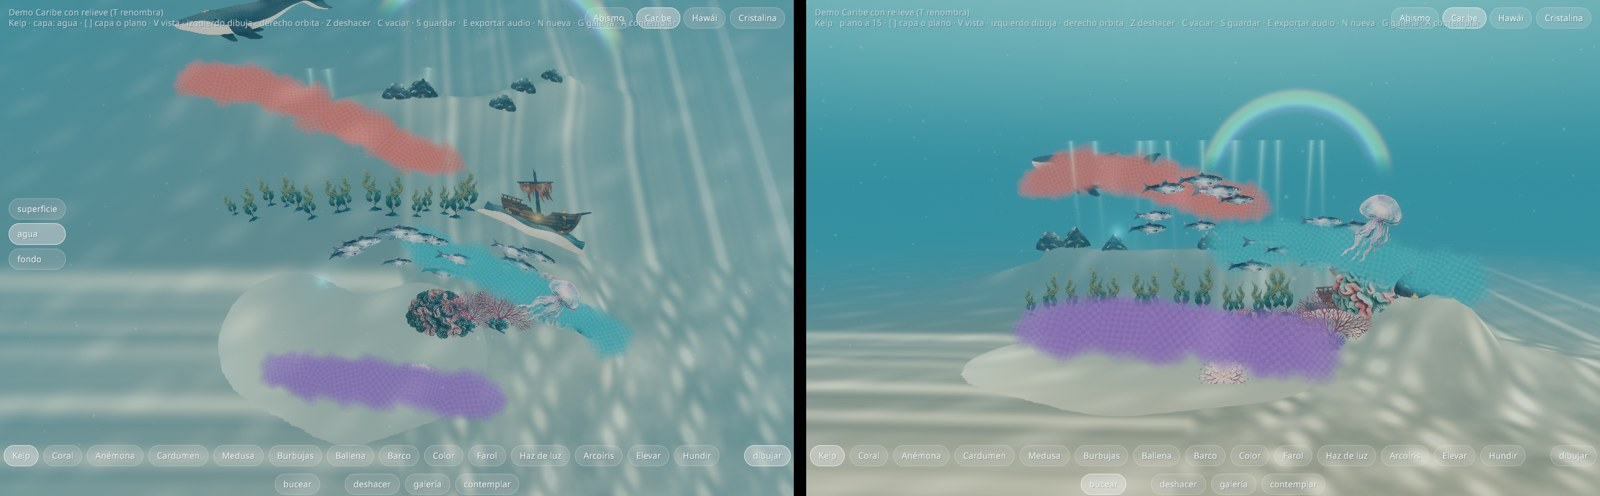
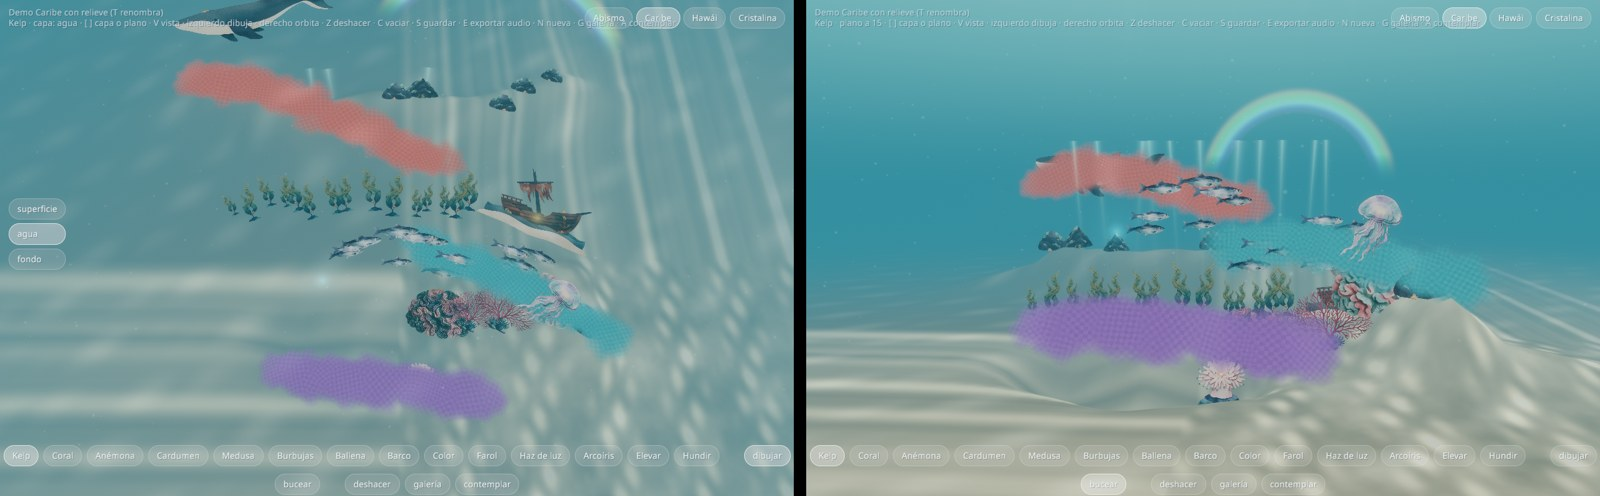
suelo: una sola malla de relieve con rejilla fina al centro y gruesa hacia el fondo (sin plano aparte que tape las fosas)

diff --git a/lienzo/app/src/terrain.rs b/lienzo/app/src/terrain.rs
@@ -10,9 +10,16 @@ use bevy::prelude::*;
 use lienzo_core::terrain::height_at;
 use lienzo_core::Scene;
 
-/// Extensión del relieve en unidades de mundo (más allá, el suelo es plano).
-pub const EXTENT: f32 = 16.0;
-pub const CELLS: usize = 112;
+/// Extensión de la malla del suelo en unidades de mundo. La rejilla es fina en
+/// el centro (donde se dibuja) y gruesa hacia fuera: una sola malla cubre
+/// hasta la pared del fondo, sin plano aparte que tape las fosas.
+pub const EXTENT: f32 = 95.0;
+pub const CELLS: usize = 160;
+const WARP: f32 = 2.6;
+
+fn warp(u: f32) -> f32 {
+    u.signum() * u.abs().powf(WARP) * EXTENT
+}
 
 #[derive(Component)]
 pub struct Terrain;
@@ -51,14 +58,14 @@ pub fn floor_y(scene: &Scene, x: f32, z: f32) -> f32 {
 
 pub fn build_mesh(scene: &Scene) -> Mesh {
     let n = CELLS + 1;
-    let step = 2.0 * EXTENT / CELLS as f32;
     let mut pos = Vec::with_capacity(n * n);
     let mut uv = Vec::with_capacity(n * n);
     let mut heights = vec![0.0f32; n * n];
+    let coord = |k: usize| warp(-1.0 + 2.0 * k as f32 / CELLS as f32);
     for j in 0..n {
         for i in 0..n {
-            let x = -EXTENT + i as f32 * step;
-            let z = -EXTENT + j as f32 * step;
+            let x = coord(i);
+            let z = coord(j);
             // fuera del volumen dibujable el relieve se apaga suavemente
             let edge = ((HALF_W * 1.6 - x.abs().max(z.abs())) / (HALF_W * 0.6)).clamp(0.0, 1.0);
             let y = floor_y(scene, x, z) * edge;
@@ -75,8 +82,10 @@ pub fn build_mesh(scene: &Scene) -> Mesh {
                 let jj = jj.clamp(0, n as isize - 1) as usize;
                 heights[jj * n + ii]
             };
-            let dx = (h(i as isize + 1, j as isize) - h(i as isize - 1, j as isize)) / (2.0 * step);
-            let dz = (h(i as isize, j as isize + 1) - h(i as isize, j as isize - 1)) / (2.0 * step);
+            let sx = (coord((i + 1).min(CELLS)) - coord(i.saturating_sub(1))).max(1e-4);
+            let sz = (coord((j + 1).min(CELLS)) - coord(j.saturating_sub(1))).max(1e-4);
+            let dx = (h(i as isize + 1, j as isize) - h(i as isize - 1, j as isize)) / sx;
+            let dz = (h(i as isize, j as isize + 1) - h(i as isize, j as isize - 1)) / sz;
             let nrm = Vec3::new(-dx, 1.0, -dz).normalize();
             normals.push([nrm.x, nrm.y, nrm.z]);
         }

diff --git a/lienzo/app/src/world.rs b/lienzo/app/src/world.rs
@@ -91,13 +91,7 @@ pub fn setup(
 
     // suelo
     let sand = materials.add(CardMaterial::opaque(images.add(textures::sand(lk.sand))));
-    // el suelo lejano, plano y un pelo más bajo para no pelear con el relieve
-    commands.spawn((
-        Mesh3d(meshes.add(Plane3d::default().mesh().size(190.0, 190.0))),
-        MeshMaterial3d(sand.clone()),
-        Transform::from_xyz(0.0, -0.03, -6.0),
-    ));
-    // el relieve esculpible
+    // el suelo: una sola malla esculpible que llega hasta el fondo
     commands.spawn((
         Mesh3d(meshes.add(crate::terrain::build_mesh(&lienzo_core::Scene::new(0)))),
         MeshMaterial3d(sand.clone()),
